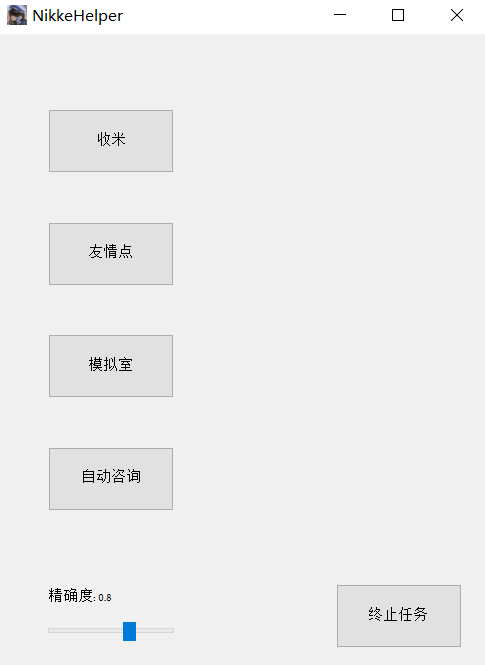
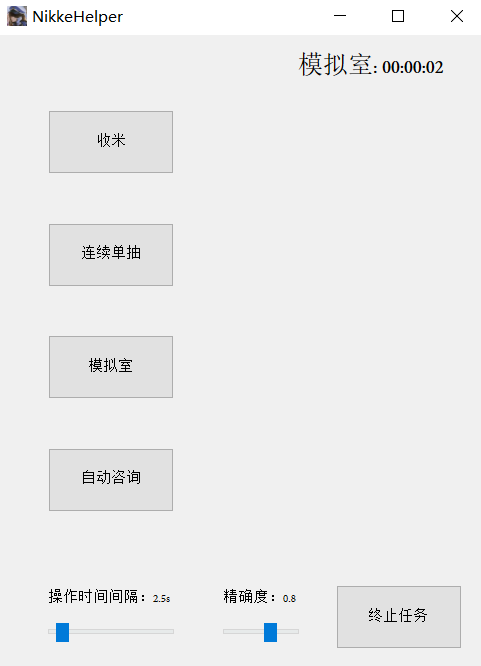
0.1

diff --git a/ui.py b/ui.py
@@ -64,7 +64,7 @@ class Ui_Form(object):
         self.pushButton4.setCursor(QCursor(Qt.ArrowCursor))
         self.horizontalSlider = QSlider(Form)
         self.horizontalSlider.setObjectName(u"horizontalSlider")
-        self.horizontalSlider.setGeometry(QRect(40, 470, 101, 16))
+        self.horizontalSlider.setGeometry(QRect(180, 470, 61, 16))
         self.horizontalSlider.setMinimum(4)
         self.horizontalSlider.setMaximum(10)
         self.horizontalSlider.setSingleStep(1)
@@ -73,7 +73,17 @@ class Ui_Form(object):
         self.horizontalSlider.setOrientation(Qt.Horizontal)
         self.label_2 = QLabel(Form)
         self.label_2.setObjectName(u"label_2")
-        self.label_2.setGeometry(QRect(40, 440, 101, 21))
+        self.label_2.setGeometry(QRect(180, 440, 61, 21))
+        self.horizontalSlider_2 = QSlider(Form)
+        self.horizontalSlider_2.setObjectName(u"horizontalSlider_2")
+        self.horizontalSlider_2.setGeometry(QRect(40, 470, 101, 16))
+        self.horizontalSlider_2.setMinimum(20)
+        self.horizontalSlider_2.setMaximum(100)
+        self.horizontalSlider_2.setValue(25)
+        self.horizontalSlider_2.setOrientation(Qt.Horizontal)
+        self.label_3 = QLabel(Form)
+        self.label_3.setObjectName(u"label_3")
+        self.label_3.setGeometry(QRect(40, 440, 101, 21))
 
         self.retranslateUi(Form)
 
@@ -83,11 +93,12 @@ class Ui_Form(object):
     def retranslateUi(self, Form):
         Form.setWindowTitle(QCoreApplication.translate("Form", u"NikkeHelper", None))
         self.pushButton1.setText(QCoreApplication.translate("Form", u"\u6536\u7c73", None))
-        self.pushButton2.setText(QCoreApplication.translate("Form", u"\u53cb\u60c5\u70b9", None))
+        self.pushButton2.setText(QCoreApplication.translate("Form", u"\u8fde\u7eed\u5355\u62bd", None))
         self.label.setText("")
         self.pushButton3.setText(QCoreApplication.translate("Form", u"\u6a21\u62df\u5ba4", None))
         self.stopButton.setText(QCoreApplication.translate("Form", u"\u7ec8\u6b62\u4efb\u52a1", None))
         self.pushButton4.setText(QCoreApplication.translate("Form", u"\u81ea\u52a8\u54a8\u8be2", None))
         self.label_2.setText("")
+        self.label_3.setText("")
     # retranslateUi
 

diff --git a/main.py b/main.py
@@ -23,7 +23,7 @@ class TaskThread(QtCore.QThread):
                 time.sleep(1)
         elif self.task_number == 2:
             while True:
-                auto_task.send_friendship()
+                auto_task.recruit()
                 time.sleep(1)
         elif self.task_number == 3:
             while True:
@@ -48,12 +48,15 @@ class Window(QtWidgets.QWidget):
         self.ui.stopButton.clicked.connect(self.stop_task)
 
         self.ui.horizontalSlider.valueChanged.connect(self.change_accuracy)
+        self.ui.horizontalSlider_2.valueChanged.connect(self.change_interval)
 
-        self.ui.label_2.setText("精确度: 0.8")
+        self.ui.label_2.setText("精确度：0.8")
+        self.ui.label_3.setText("操作时间间隔：2.5s")
 
         self.current_task = None
         self.timer = None
         self.accuracy = 8
+        self.interval = 25
 
         self.current_thread = None
         self.task1_thread = TaskThread(1)
@@ -73,7 +76,7 @@ class Window(QtWidgets.QWidget):
     def run_task2(self):
         if self.current_thread:
             self.stop_task()
-        self.current_task = "友情点"
+        self.current_task = "连续单抽"
         self.current_thread = self.task2_thread
         self.task2_thread.start()
         self.start_timer()
@@ -116,8 +119,13 @@ class Window(QtWidgets.QWidget):
 
     def change_accuracy(self):
         self.accuracy = self.ui.horizontalSlider.value()
-        self.ui.label_2.setText(f"精确度: {self.accuracy / 10}")
+        self.ui.label_2.setText(f"精确度：{self.accuracy / 10}")
         auto_task.change_accuracy(self.accuracy / 10)
+
+    def change_interval(self):
+        self.interval = self.ui.horizontalSlider_2.value()
+        self.ui.label_3.setText(f"操作时间间隔：{self.interval / 10}s")
+        auto_task.change_interval(self.interval / 10)
 
 
 if __name__ == "__main__":

diff --git a/auto_task.py b/auto_task.py
@@ -3,17 +3,20 @@ import time
 from auto_player import Player
 
 my_player = Player(accuracy=0.8, adb_mode=False)
-my_rough_player = Player(accuracy=0.3, adb_mode=False)
 
 
 def change_accuracy(new_accuracy):
     my_player.change_accuracy(new_accuracy)
 
 
+def change_interval(new_interval):
+    my_player.change_interval(new_interval)
+
+
 def gain_rewards():
     # 仓库收米
     if my_player.exist(['100%']):
-        my_player.find_touch(['lobby', '100%', 'destroy', 'start_destroy', 'cancel', 'gain_reward', 'REWARD_2', 'REWARD', 'lobby'])
+        my_player.find_touch(['lobby', '100%', 'destroy', 'start_destroy', 'REWARD', 'cancel', 'gain_reward', 'REWARD_2', 'REWARD', 'lobby'])
         time.sleep(2)
     # 友情点
     if my_player.exist(['friend']):
@@ -42,11 +45,11 @@ def gain_rewards():
     if my_player.exist(['base']):
         my_player.find_touch(['base'])
         time.sleep(5.5)
-        my_player.find_touch(['board', 'gain_all', 'REWARD', 'dispatch_all', 'dispatch', 'home'])
+        my_player.find_touch(['board', 'gain_all', 'REWARD', 'dispatch_all', 'dispatch'])
 
 
-def send_friendship():
-    my_player.find_touch(['friend','give', 'confirm', 'ark'])
+def recruit():
+    my_player.find_touch_same_screen(['recruit_one', 'skip', 'confirm_3'])
 
 
 def simulation_room():
@@ -94,4 +97,11 @@ def simulation_room():
 
 
 def auto_consult():
-    print("to do")
+    if my_player.exist(['nikke']):
+        my_player.find_touch(['nikke', 'consult'])
+        time.sleep(2)
+    if my_player.exist(['nikke_consult']):
+        my_player.find_touch(['nikke_consult', 'consult_2', 'confirm_2', 'auto'])
+        time.sleep(2)
+    if my_player.exist(['consult_option']):
+        my_player.find_touch(['consult_option', 'skip', 'back'])

diff --git a/auto_player.py b/auto_player.py
@@ -24,6 +24,7 @@ class Player(object):
     def __init__(self, accuracy=0.8, adb_mode=False, adb_num=0):
         super(Player, self).__init__()
         self.accuracy = accuracy
+        self.interval = 2.5
         self.adb_mode = adb_mode
         self.load_target()
         if self.adb_mode:
@@ -203,9 +204,13 @@ class Player(object):
                     loc_pos[0][1] += start[1]
                 self.touch(loc_pos[0])  # 同一目标多个结果时只点第一个
                 re = name
-            time.sleep(2.3)
+            time.sleep(self.interval)
         return re
 
     # 修改精确度
     def change_accuracy(self, new_accuracy):
         self.accuracy = new_accuracy
+
+    # 修改时间间隔
+    def change_interval(self, new_interval):
+        self.interval = new_interval

diff --git a/README.md b/README.md
@@ -1,6 +1,7 @@
 # NIKKE-helper
 本菜鸟参照[auto_player](https://github.com/anywhere2go/auto_player)仓库的大佬写的模板制作的此脚本。   
-适用于PC端，使用窗口模式，且**窗口大小需调至803x1021**，不能遮挡游戏画面，界面保持在大厅即可。
+适用于PC端，使用窗口模式4:3，且**窗口大小需调至803x1021**，不能遮挡游戏画面，界面保持在大厅即可。   
+必须需要**管理员权限**，否则无法实现点击。
 
 不是很懂python，觉得好玩而制作的，顺便学学pyside。
 
@@ -12,4 +13,4 @@ pip install -r requirements.txt
 
 ![预览](./example.png)
 
-自动咨询未完待续，，，
+暂时就搞了这些，，，
